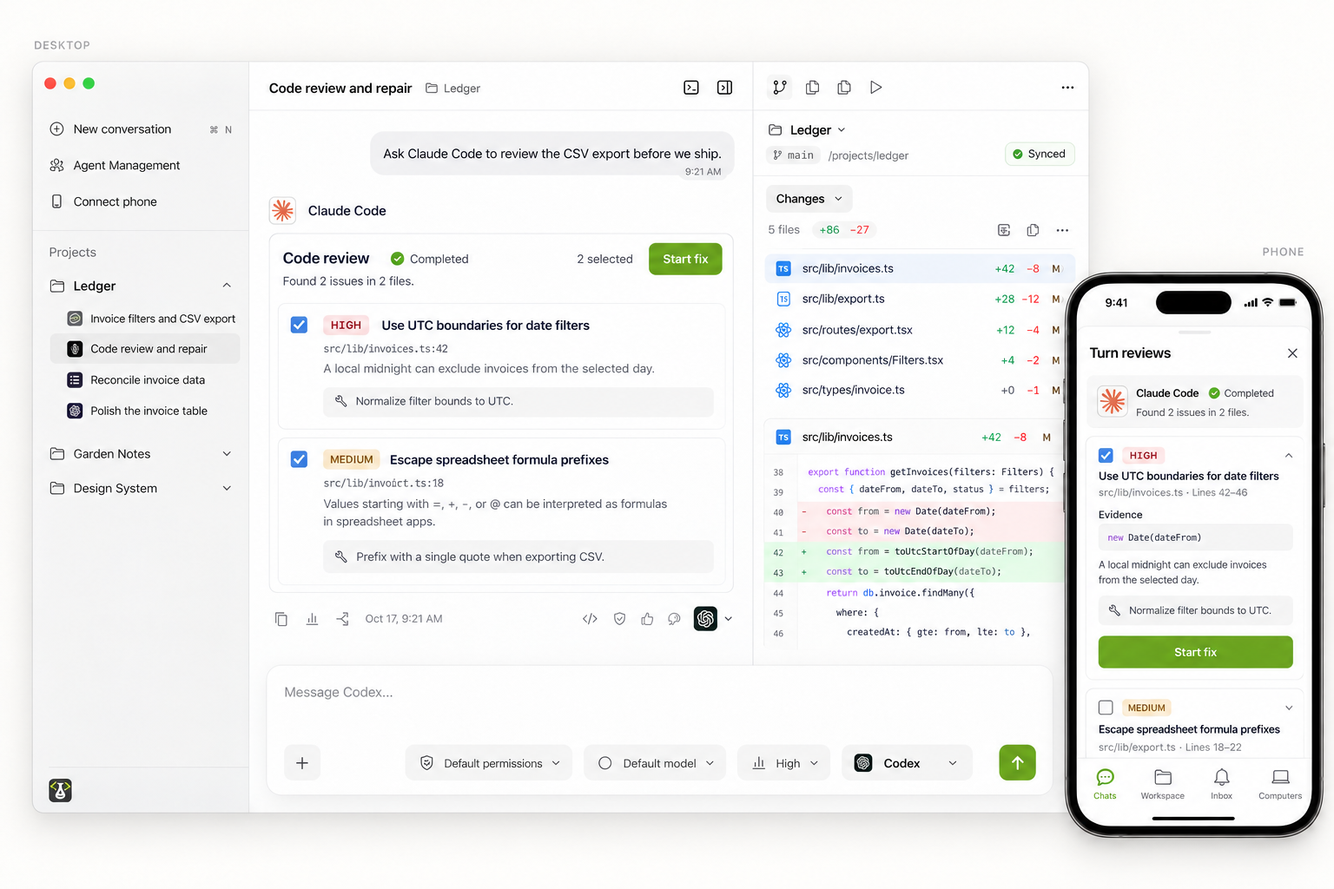
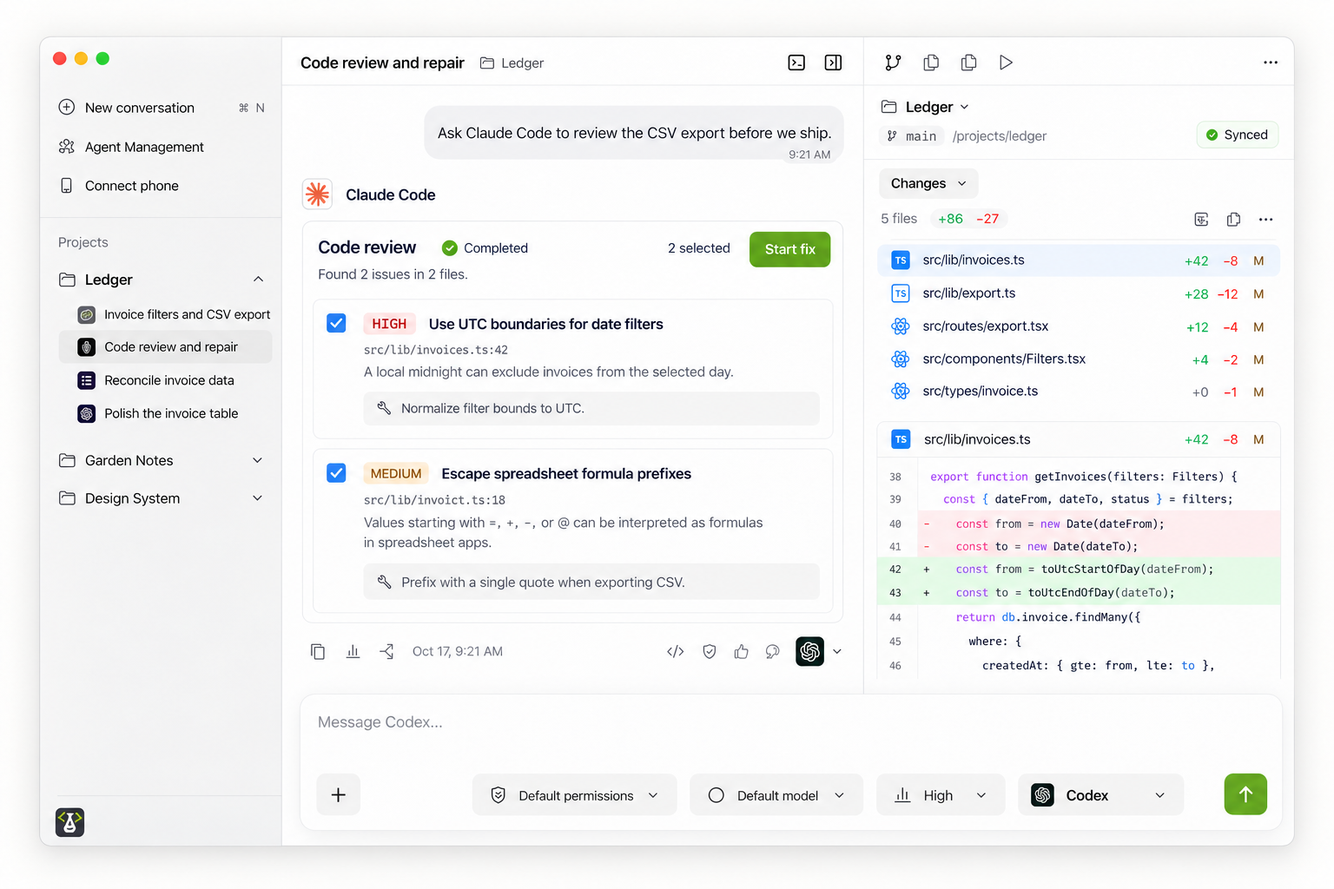
docs: show desktop-only illustrations in Features

diff --git a/docs/images/readme/en/preview.html b/docs/images/readme/en/preview.html
@@ -1,1 +1,1 @@
-<!doctype html><html lang="en"><meta charset="utf-8"><meta name="viewport" content="width=device-width,initial-scale=1"><title>dog.codes · English feature illustrations</title><style>body.grid main{display:grid;grid-template-columns:repeat(2,minmax(0,1fr));gap:24px}body.grid section{margin-bottom:12px}body.grid h2{font-size:17px}button{border:1px solid #bcc9ad;border-radius:6px;background:white;padding:8px 14px;color:#426622;cursor:pointer;font:inherit}@media(max-width:800px){body.grid main{grid-template-columns:1fr}}*{box-sizing:border-box}body{margin:0;background:#f4f5f2;color:#1c241b;font:16px/1.6 -apple-system,BlinkMacSystemFont,"Segoe UI",sans-serif}header,main{max-width:1380px;margin:auto;padding:36px 28px}header{padding-bottom:10px}h1{font-size:36px;letter-spacing:-1px;margin:0}header p{color:#66715f;max-width:820px}nav{display:flex;flex-wrap:wrap;gap:8px;margin:24px 0}a{color:#426622;text-decoration:none}nav a{padding:6px 12px;border:1px solid #d4dccd;border-radius:6px;font-size:13px;background:white}section{margin-bottom:64px;scroll-margin-top:20px}h2{font-size:23px;font-weight:600}h2 span{font-size:14px;color:#7d8f6c;margin-right:14px}img{display:block;width:100%;height:auto;border:1px solid #dce2d6;border-radius:12px;background:white}section p{margin:10px 0;font-size:13px}footer{padding:30px;color:#66715f;text-align:center}</style><body class="grid"><header><h1>dog.codes · English feature illustrations</h1><p>16 UI-based illustrations with curated development conversations. Desktop first; the corresponding phone view follows. This English set is ready for review before producing other languages.</p><button onclick="document.body.classList.toggle('grid')">Grid / Full size</button><nav><a href="#overview">01 One place to work</a><a href="#switch-agent">02 Hand off work between agents seamlessly</a><a href="#usage">03 Know your quota and usage at a glance</a><a href="#accounts">04 Use the subscriptions you already have</a><a href="#review-fix">05 Cross-agent code review and repair</a><a href="#fork">06 Fork across agents and compare approaches</a><a href="#git-changes">07 Git management that feels familiar</a><a href="#run-project">08 Discover how to run a project</a><a href="#multi-folder">09 Multi-folder projects</a><a href="#turn-usage">10 Per-turn usage, crystal clear</a><a href="#phone-remote">11 Command your agents from your phone</a><a href="#remote-desktop">12 Remote desktop when you need it</a><a href="#permissions">13 Approve permissions and answer questions</a><a href="#terminal">14 Run commands in your PC terminal</a><a href="#files-attachments">15 Browse files and send attachments</a><a href="#add-project">16 Add projects from your computer</a></nav></header><main><section id="overview"><h2><span>01</span> One place to work</h2><a href="overview.png"><img src="overview.png" alt="One place to work" loading="lazy" width="1536" height="1024"></a><p><a href="overview.png" download>Download PNG</a></p></section><section id="switch-agent"><h2><span>02</span> Hand off work between agents seamlessly</h2><a href="switch-agent.png"><img src="switch-agent.png" alt="Hand off work between agents seamlessly" loading="lazy" width="1536" height="1024"></a><p><a href="switch-agent.png" download>Download PNG</a></p></section><section id="usage"><h2><span>03</span> Know your quota and usage at a glance</h2><a href="usage.png"><img src="usage.png" alt="Know your quota and usage at a glance" loading="lazy" width="1536" height="1024"></a><p><a href="usage.png" download>Download PNG</a></p></section><section id="accounts"><h2><span>04</span> Use the subscriptions you already have</h2><a href="accounts.png"><img src="accounts.png" alt="Use the subscriptions you already have" loading="lazy" width="1536" height="1024"></a><p><a href="accounts.png" download>Download PNG</a></p></section><section id="review-fix"><h2><span>05</span> Cross-agent code review and repair</h2><a href="review-fix.png"><img src="review-fix.png" alt="Cross-agent code review and repair" loading="lazy" width="1536" height="1024"></a><p><a href="review-fix.png" download>Download PNG</a></p></section><section id="fork"><h2><span>06</span> Fork across agents and compare approaches</h2><a href="fork.png"><img src="fork.png" alt="Fork across agents and compare approaches" loading="lazy" width="1536" height="1024"></a><p><a href="fork.png" download>Download PNG</a></p></section><section id="git-changes"><h2><span>07</span> Git management that feels familiar</h2><a href="git-changes.png"><img src="git-changes.png" alt="Git management that feels familiar" loading="lazy" width="1536" height="1024"></a><p><a href="git-changes.png" download>Download PNG</a></p></section><section id="run-project"><h2><span>08</span> Discover how to run a project</h2><a href="run-project.png"><img src="run-project.png" alt="Discover how to run a project" loading="lazy" width="1536" height="1024"></a><p><a href="run-project.png" download>Download PNG</a></p></section><section id="multi-folder"><h2><span>09</span> Multi-folder projects</h2><a href="multi-folder.png"><img src="multi-folder.png" alt="Multi-folder projects" loading="lazy" width="1536" height="1024"></a><p><a href="multi-folder.png" download>Download PNG</a></p></section><section id="turn-usage"><h2><span>10</span> Per-turn usage, crystal clear</h2><a href="turn-usage.png"><img src="turn-usage.png" alt="Per-turn usage, crystal clear" loading="lazy" width="1536" height="1024"></a><p><a href="turn-usage.png" download>Download PNG</a></p></section><section id="phone-remote"><h2><span>11</span> Command your agents from your phone</h2><a href="phone-remote.png"><img src="phone-remote.png" alt="Command your agents from your phone" loading="lazy" width="1536" height="1024"></a><p><a href="phone-remote.png" download>Download PNG</a></p></section><section id="remote-desktop"><h2><span>12</span> Remote desktop when you need it</h2><a href="remote-desktop.png"><img src="remote-desktop.png" alt="Remote desktop when you need it" loading="lazy" width="1536" height="1024"></a><p><a href="remote-desktop.png" download>Download PNG</a></p></section><section id="permissions"><h2><span>13</span> Approve permissions and answer questions</h2><a href="permissions.png"><img src="permissions.png" alt="Approve permissions and answer questions" loading="lazy" width="1536" height="1024"></a><p><a href="permissions.png" download>Download PNG</a></p></section><section id="terminal"><h2><span>14</span> Run commands in your PC terminal</h2><a href="terminal.png"><img src="terminal.png" alt="Run commands in your PC terminal" loading="lazy" width="1536" height="1024"></a><p><a href="terminal.png" download>Download PNG</a></p></section><section id="files-attachments"><h2><span>15</span> Browse files and send attachments</h2><a href="files-attachments.png"><img src="files-attachments.png" alt="Browse files and send attachments" loading="lazy" width="1536" height="1024"></a><p><a href="files-attachments.png" download>Download PNG</a></p></section><section id="add-project"><h2><span>16</span> Add projects from your computer</h2><a href="add-project.png"><img src="add-project.png" alt="Add projects from your computer" loading="lazy" width="1536" height="1024"></a><p><a href="add-project.png" download>Download PNG</a></p></section></main><footer>UI-based illustrations · Example project and readings · English review set</footer></html>
+<!doctype html><html lang="en"><meta charset="utf-8"><meta name="viewport" content="width=device-width,initial-scale=1"><title>dog.codes · English feature illustrations</title><style>body.grid main{display:grid;grid-template-columns:repeat(2,minmax(0,1fr));gap:24px}body.grid section{margin-bottom:12px}body.grid h2{font-size:17px}button{border:1px solid #bcc9ad;border-radius:6px;background:white;padding:8px 14px;color:#426622;cursor:pointer;font:inherit}@media(max-width:800px){body.grid main{grid-template-columns:1fr}}*{box-sizing:border-box}body{margin:0;background:#f4f5f2;color:#1c241b;font:16px/1.6 -apple-system,BlinkMacSystemFont,"Segoe UI",sans-serif}header,main{max-width:1380px;margin:auto;padding:36px 28px}header{padding-bottom:10px}h1{font-size:36px;letter-spacing:-1px;margin:0}header p{color:#66715f;max-width:820px}nav{display:flex;flex-wrap:wrap;gap:8px;margin:24px 0}a{color:#426622;text-decoration:none}nav a{padding:6px 12px;border:1px solid #d4dccd;border-radius:6px;font-size:13px;background:white}section{margin-bottom:64px;scroll-margin-top:20px}h2{font-size:23px;font-weight:600}h2 span{font-size:14px;color:#7d8f6c;margin-right:14px}img{display:block;width:100%;height:auto;border:1px solid #dce2d6;border-radius:12px;background:white}section p{margin:10px 0;font-size:13px}footer{padding:30px;color:#66715f;text-align:center}</style><body class="grid"><header><h1>dog.codes · English feature illustrations</h1><p>19 UI-based illustrations with curated development conversations. The nine Features images show desktop only. Phone remote illustrations retain the corresponding phone views.</p><button onclick="document.body.classList.toggle('grid')">Grid / Full size</button><nav><a href="#overview">01 One place to work</a><a href="#switch-agent">02 Hand off work between agents seamlessly</a><a href="#usage">03 Know your quota and usage at a glance</a><a href="#accounts">04 Use the subscriptions you already have</a><a href="#review-fix">05 Cross-agent code review and repair</a><a href="#fork">06 Fork across agents and compare approaches</a><a href="#git-changes">07 Git management that feels familiar</a><a href="#run-project">08 Discover how to run a project</a><a href="#multi-folder">09 Multi-folder projects</a><a href="#turn-usage">10 Per-turn usage, crystal clear</a><a href="#phone-remote">11 Command your agents from your phone</a><a href="#remote-desktop">12 Remote desktop when you need it</a><a href="#permissions">13 Approve permissions and answer questions</a><a href="#terminal">14 Run commands in your PC terminal</a><a href="#files-attachments">15 Browse files and send attachments</a><a href="#add-project">16 Add projects from your computer</a><a href="#switch-agent-phone">17 Continue conversations from your phone</a><a href="#git-changes-phone">18 Review and commit from your phone</a><a href="#run-project-phone">19 Run and preview from your phone</a></nav></header><main><section id="overview"><h2><span>01</span> One place to work</h2><a href="overview.png"><img src="overview.png" alt="One place to work" loading="lazy" width="1536" height="1024"></a><p>Desktop + phone · <a href="overview.png" download>Download PNG</a></p></section><section id="switch-agent"><h2><span>02</span> Hand off work between agents seamlessly</h2><a href="switch-agent.png"><img src="switch-agent.png" alt="Hand off work between agents seamlessly" loading="lazy" width="1536" height="1024"></a><p>Desktop only · <a href="switch-agent.png" download>Download PNG</a></p></section><section id="usage"><h2><span>03</span> Know your quota and usage at a glance</h2><a href="usage.png"><img src="usage.png" alt="Know your quota and usage at a glance" loading="lazy" width="1536" height="1024"></a><p>Desktop only · <a href="usage.png" download>Download PNG</a></p></section><section id="accounts"><h2><span>04</span> Use the subscriptions you already have</h2><a href="accounts.png"><img src="accounts.png" alt="Use the subscriptions you already have" loading="lazy" width="1536" height="1024"></a><p>Desktop only · <a href="accounts.png" download>Download PNG</a></p></section><section id="review-fix"><h2><span>05</span> Cross-agent code review and repair</h2><a href="review-fix.png"><img src="review-fix.png" alt="Cross-agent code review and repair" loading="lazy" width="1536" height="1024"></a><p>Desktop only · <a href="review-fix.png" download>Download PNG</a></p></section><section id="fork"><h2><span>06</span> Fork across agents and compare approaches</h2><a href="fork.png"><img src="fork.png" alt="Fork across agents and compare approaches" loading="lazy" width="1536" height="1024"></a><p>Desktop only · <a href="fork.png" download>Download PNG</a></p></section><section id="git-changes"><h2><span>07</span> Git management that feels familiar</h2><a href="git-changes.png"><img src="git-changes.png" alt="Git management that feels familiar" loading="lazy" width="1536" height="1024"></a><p>Desktop only · <a href="git-changes.png" download>Download PNG</a></p></section><section id="run-project"><h2><span>08</span> Discover how to run a project</h2><a href="run-project.png"><img src="run-project.png" alt="Discover how to run a project" loading="lazy" width="1536" height="1024"></a><p>Desktop only · <a href="run-project.png" download>Download PNG</a></p></section><section id="multi-folder"><h2><span>09</span> Multi-folder projects</h2><a href="multi-folder.png"><img src="multi-folder.png" alt="Multi-folder projects" loading="lazy" width="1536" height="1024"></a><p>Desktop only · <a href="multi-folder.png" download>Download PNG</a></p></section><section id="turn-usage"><h2><span>10</span> Per-turn usage, crystal clear</h2><a href="turn-usage.png"><img src="turn-usage.png" alt="Per-turn usage, crystal clear" loading="lazy" width="1536" height="1024"></a><p>Desktop only · <a href="turn-usage.png" download>Download PNG</a></p></section><section id="phone-remote"><h2><span>11</span> Command your agents from your phone</h2><a href="phone-remote.png"><img src="phone-remote.png" alt="Command your agents from your phone" loading="lazy" width="1536" height="1024"></a><p>Desktop + phone · <a href="phone-remote.png" download>Download PNG</a></p></section><section id="remote-desktop"><h2><span>12</span> Remote desktop when you need it</h2><a href="remote-desktop.png"><img src="remote-desktop.png" alt="Remote desktop when you need it" loading="lazy" width="1536" height="1024"></a><p>Desktop + phone · <a href="remote-desktop.png" download>Download PNG</a></p></section><section id="permissions"><h2><span>13</span> Approve permissions and answer questions</h2><a href="permissions.png"><img src="permissions.png" alt="Approve permissions and answer questions" loading="lazy" width="1536" height="1024"></a><p>Desktop + phone · <a href="permissions.png" download>Download PNG</a></p></section><section id="terminal"><h2><span>14</span> Run commands in your PC terminal</h2><a href="terminal.png"><img src="terminal.png" alt="Run commands in your PC terminal" loading="lazy" width="1536" height="1024"></a><p>Desktop + phone · <a href="terminal.png" download>Download PNG</a></p></section><section id="files-attachments"><h2><span>15</span> Browse files and send attachments</h2><a href="files-attachments.png"><img src="files-attachments.png" alt="Browse files and send attachments" loading="lazy" width="1536" height="1024"></a><p>Desktop + phone · <a href="files-attachments.png" download>Download PNG</a></p></section><section id="add-project"><h2><span>16</span> Add projects from your computer</h2><a href="add-project.png"><img src="add-project.png" alt="Add projects from your computer" loading="lazy" width="1536" height="1024"></a><p>Desktop + phone · <a href="add-project.png" download>Download PNG</a></p></section><section id="switch-agent-phone"><h2><span>17</span> Continue conversations from your phone</h2><a href="switch-agent-phone.png"><img src="switch-agent-phone.png" alt="Continue conversations from your phone" loading="lazy" width="1536" height="1024"></a><p>Desktop + phone · <a href="switch-agent-phone.png" download>Download PNG</a></p></section><section id="git-changes-phone"><h2><span>18</span> Review and commit from your phone</h2><a href="git-changes-phone.png"><img src="git-changes-phone.png" alt="Review and commit from your phone" loading="lazy" width="1536" height="1024"></a><p>Desktop + phone · <a href="git-changes-phone.png" download>Download PNG</a></p></section><section id="run-project-phone"><h2><span>19</span> Run and preview from your phone</h2><a href="run-project-phone.png"><img src="run-project-phone.png" alt="Run and preview from your phone" loading="lazy" width="1536" height="1024"></a><p>Desktop + phone · <a href="run-project-phone.png" download>Download PNG</a></p></section></main><footer>UI-based illustrations · Example project and readings · English review set</footer></body></html>

diff --git a/README.md b/README.md
@@ -51,7 +51,7 @@ Connect the agents you already use. The 12 integrations below are implemented; a
 - When one agent runs out of quota, another picks up the work without you restating the requirements.
 - The previous conversation travels with the handoff, and the new agent can look up earlier turns through built-in history tools — it truly continues instead of starting over.
 
-![Hand off work between agents seamlessly — desktop first, phone where available](docs/images/readme/en/switch-agent.png)
+![Hand off work between agents seamlessly — desktop](docs/images/readme/en/switch-agent.png)
 
 ### Know your quota and usage at a glance
 
@@ -61,7 +61,7 @@ Connect the agents you already use. The 12 integrations below are implemented; a
 - Manage agent versions in one place and upgrade with a single click.
 - Installed agents are discovered automatically, along with their sign-in status.
 
-![Know your quota and usage at a glance — desktop first, phone where available](docs/images/readme/en/usage.png)
+![Know your quota and usage at a glance — desktop](docs/images/readme/en/usage.png)
 
 ### Use the subscriptions you already have
 
@@ -71,7 +71,7 @@ Connect the agents you already use. The 12 integrations below are implemented; a
 - Local-first: your code, conversations and credentials stay on your computer. The optional phone link is end-to-end encrypted, so the relay never sees your data.
 - Agents are launched with only the environment they need, so your other secrets are not exposed to them.
 
-![Use the subscriptions you already have — desktop first, phone where available](docs/images/readme/en/accounts.png)
+![Use the subscriptions you already have — desktop](docs/images/readme/en/accounts.png)
 
 ### Cross-agent code review and repair
 
@@ -81,7 +81,7 @@ Connect the agents you already use. The 12 integrations below are implemented; a
 - Findings are ranked high, medium, and low; select the ones you want and start the repair with one click.
 - The repair goes back to the main agent together with the review report and selected findings, keeping the context intact.
 
-![Cross-agent code review and repair — desktop first, phone where available](docs/images/readme/en/review-fix.png)
+![Cross-agent code review and repair — desktop](docs/images/readme/en/review-fix.png)
 
 ### Fork across agents and compare approaches
 
@@ -90,7 +90,7 @@ Connect the agents you already use. The 12 integrations below are implemented; a
 - With worktrees, the code changes of each approach stay isolated from one another.
 - Let different agents each produce a version of the same task, then keep the best one.
 
-![Fork across agents and compare approaches — desktop first, phone where available](docs/images/readme/en/fork.png)
+![Fork across agents and compare approaches — desktop](docs/images/readme/en/fork.png)
 
 ### Git management that feels familiar
 
@@ -99,7 +99,7 @@ Connect the agents you already use. The 12 integrations below are implemented; a
 - Stage, unstage, discard, ignore, Commit, and Commit & Push, with tree and list views.
 - Have any agent write the commit message with one click, in the language you choose.
 
-![Git management that feels familiar — desktop first, phone where available](docs/images/readme/en/git-changes.png)
+![Git management that feels familiar — desktop](docs/images/readme/en/git-changes.png)
 
 ### Discover how to run a project, then run it in one click
 
@@ -108,7 +108,7 @@ Connect the agents you already use. The 12 integrations below are implemented; a
 - No more remembering each project's start command or opening a terminal just to launch it — one click runs it.
 - Output is collected in one place so you can check it any time.
 
-![Discover how to run a project — desktop first, phone where available](docs/images/readme/en/run-project.png)
+![Discover how to run a project — desktop](docs/images/readme/en/run-project.png)
 
 ### Multi-folder projects
 
@@ -116,7 +116,7 @@ Connect the agents you already use. The 12 integrations below are implemented; a
 
 - Even agents without native multi-folder support can work on multi-folder projects through dog.codes.
 
-![Multi-folder projects — desktop first, phone where available](docs/images/readme/en/multi-folder.png)
+![Multi-folder projects — desktop](docs/images/readme/en/multi-folder.png)
 
 ### Per-turn usage, crystal clear
 
@@ -124,7 +124,7 @@ Connect the agents you already use. The 12 integrations below are implemented; a
 
 - Understand exactly what the current conversation and each turn consumed, and where your tokens went.
 
-![Per-turn usage, crystal clear — desktop first, phone where available](docs/images/readme/en/turn-usage.png)
+![Per-turn usage, crystal clear — desktop](docs/images/readme/en/turn-usage.png)
 
 **Open source · Free · Cross-platform**: licensed under Apache-2.0, built for macOS, Windows, and Linux.
 
@@ -140,7 +140,7 @@ Pair a phone once and run everything below from anywhere. Your code and your age
 
 - **Continue or start conversations.** Pick up any conversation from your computer, or start a new one — choose the agent, model and thinking effort, watch the output stream in live, and search, pin, archive or fork sessions.
 
-  ![Hand off work between agents seamlessly — desktop first, phone where available](docs/images/readme/en/switch-agent.png)
+  ![Hand off work between agents seamlessly — desktop first, phone where available](docs/images/readme/en/switch-agent-phone.png)
 
 - **Approve and answer.** Permission requests and agent questions reach your phone with push notifications; one tap and the agent carries on. Every approval is checked against the original run on your computer.
 
@@ -148,7 +148,7 @@ Pair a phone once and run everything below from anywhere. Your code and your age
 
 - **Review and commit.** See the changes in every project folder, stage files, have an agent write the commit message, then commit, push, pull or sync. Browse commit history and compare branches read-only.
 
-  ![Git management that feels familiar — desktop first, phone where available](docs/images/readme/en/git-changes.png)
+  ![Git management that feels familiar — desktop first, phone where available](docs/images/readme/en/git-changes-phone.png)
 
 - **Add projects from your PC.** Browse the folders on your computer and add one as a project without sitting back down at your desk.
 
@@ -160,7 +160,7 @@ Pair a phone once and run everything below from anywhere. Your code and your age
 
 - **Run the project, see it on your phone.** Start the launch entries on your computer and open the running web app right on the phone.
 
-  ![Discover how to run a project — desktop first, phone where available](docs/images/readme/en/run-project.png)
+  ![Discover how to run a project — desktop first, phone where available](docs/images/readme/en/run-project-phone.png)
 
 - **Browse files and send attachments.** Read project files, and attach files and images to your messages.
 

diff --git a/docs/README-MAINTENANCE.md b/docs/README-MAINTENANCE.md
@@ -63,8 +63,8 @@ Playwright 不在项目运行依赖中；也可通过 `--playwright-module /abso
 
 ## 英文功能配图验收集
 
-英文首页已接入 `docs/images/readme/en/` 中 16 张功能图。本轮按照用户要求，使用内置 image_gen 参照软件 PC / 手机 UI 重绘；对话内容采用 Ledger 发票筛选、CSV 导出、代码审查、修复、测试与提交的开发场景，不直接使用应用里的测试会话截图。配图中的项目、代码、额度和版本是示例，不能作为原生运行或供应商验收证据。
+英文首页已接入 `docs/images/readme/en/` 中 19 张功能图。本轮按照用户要求，使用内置 image_gen 参照软件 PC / 手机 UI 重绘；对话内容采用 Ledger 发票筛选、CSV 导出、代码审查、修复、测试与提交的开发场景，不直接使用应用里的测试会话截图。配图中的项目、代码、额度和版本是示例，不能作为原生运行或供应商验收证据。
 
-每张图按先 PC（左上）、后对应手机（右下）组织。`preview.html` 提供整套验收，`prompts.json` 保留提示词与校对记录，`manifest.json` 记录文件尺寸及 SHA-256。所有语言首页均已移除「最小化窗口，工作继续」「每次发送、提交和推送只发生一次」「界面使用你的语言」三个章节及其配图引用；英文资源目录与预览同步移除对应三张图。其他功能的图片与语言导航保留。
+Features 章节的 9 张图只展示 PC，完整窗口居中；总览及手机远程章节仍按先 PC（左上）、后对应手机（右下）组织。手机章节共享的切换 Agent、Git、运行项目三张图以 `*-phone.png` 保留原版，避免 Features 改图影响手机展示。`preview.html` 提供整套验收，`prompts.json` 保留提示词与校对记录，`manifest.json` 记录文件尺寸及 SHA-256。所有语言首页均已移除「最小化窗口，工作继续」「每次发送、提交和推送只发生一次」「界面使用你的语言」三个章节及其配图引用；英文资源目录与预览同步移除对应三张图。其他功能的图片与语言导航保留。
 
 图片原件为 1536 × 1024 PNG。不要用旧截图脚本覆盖英文目录，亦不要把这些重绘图描述为真实运行截图。

diff --git a/docs/images/readme/en/README.md b/docs/images/readme/en/README.md
@@ -1,9 +1,10 @@
 # English README feature illustrations
 
-16 PNGs drawn with the built-in image_gen tool, based on the desktop and phone UI. These are editorial feature illustrations, not direct screenshots or runtime acceptance evidence. Conversations, code, quotas and account readings are curated fictional examples around the Ledger invoice development workflow.
+19 PNGs drawn with the built-in image_gen tool, based on the desktop and phone UI. These are editorial feature illustrations, not direct screenshots or runtime acceptance evidence. Conversations, code, quotas and account readings are curated fictional examples around the Ledger invoice development workflow.
 
 - Open `preview.html` to review the complete set.
-- Each applicable image presents the desktop first (upper-left), followed by the phone (lower-right).
+- The nine images in the README's Features section show only the desktop, centered with its complete app frame.
+- The overview and phone-remote illustrations retain the desktop first (upper-left), followed by the phone (lower-right). The phone chapter uses the preserved `switch-agent-phone.png`, `git-changes-phone.png`, and `run-project-phone.png` variants.
 - Root `README.md` references this English set. The three removed feature sections are also removed from every translated README.
 - `prompts.json` records the prompt set and corrections. `manifest.json` records source files and topics.
 
